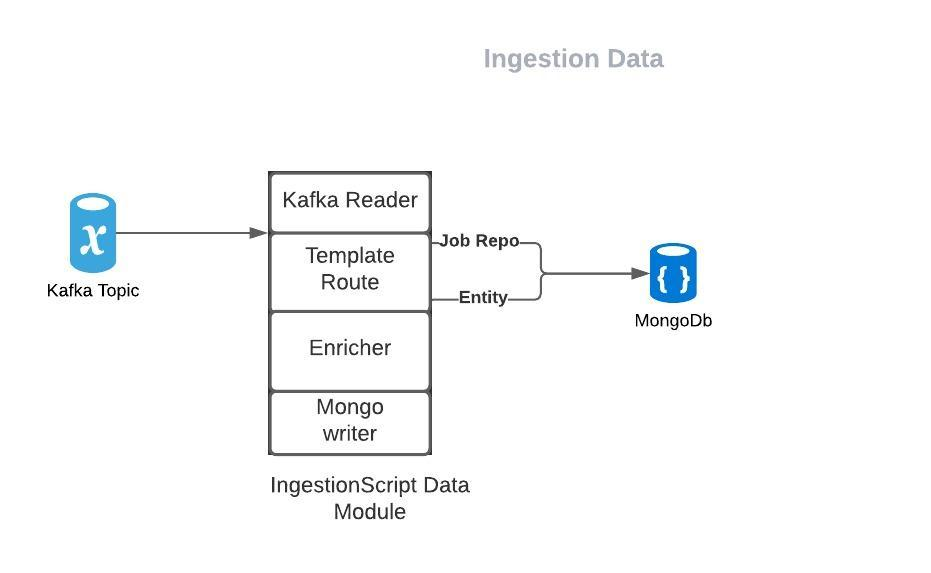
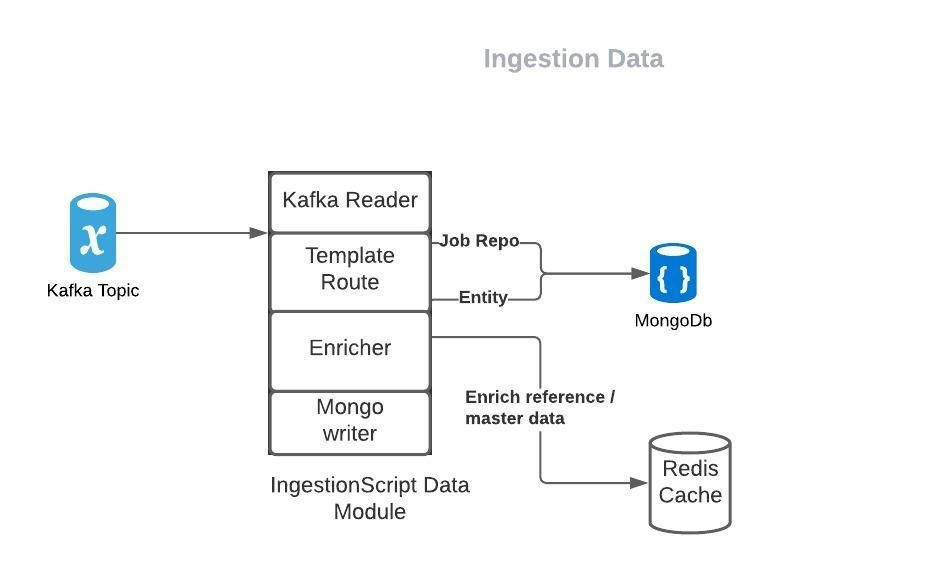
changes to README.md

diff --git a/README.md b/README.md
@@ -23,6 +23,7 @@ To be able to run this module it is recommended to ensure following prerequisite
     - Spring framework (Spring DI, Beans, REST) , Spring batch and Springboot
     - MongoDb
     - Apache Camel  
+    - Redis  
     - Kafka
     - Eclipse, Junit, Maven
 + Necessary access/installation in place:
@@ -49,7 +50,8 @@ This ingestion module to reads json data stored in kafka to MongoDb records coll
 consists of templateId based on which message is routed to camel based endpoint for enrichment -> transform -> store.
 Ingestion module can be started on demand until all the data on topic are consumed.Every ingestion module will have 
 template based enrichment and routing process defined as part of configuration provided at the start.
-Job related data will be logged into below collections.
+Job related data will be logged into below collections.Redis cache will consists of master data used frequently in 
+enrichment.
 
 + MongoDB Collections :
   - BatchJobInstance : Maintains different jobs executed.
